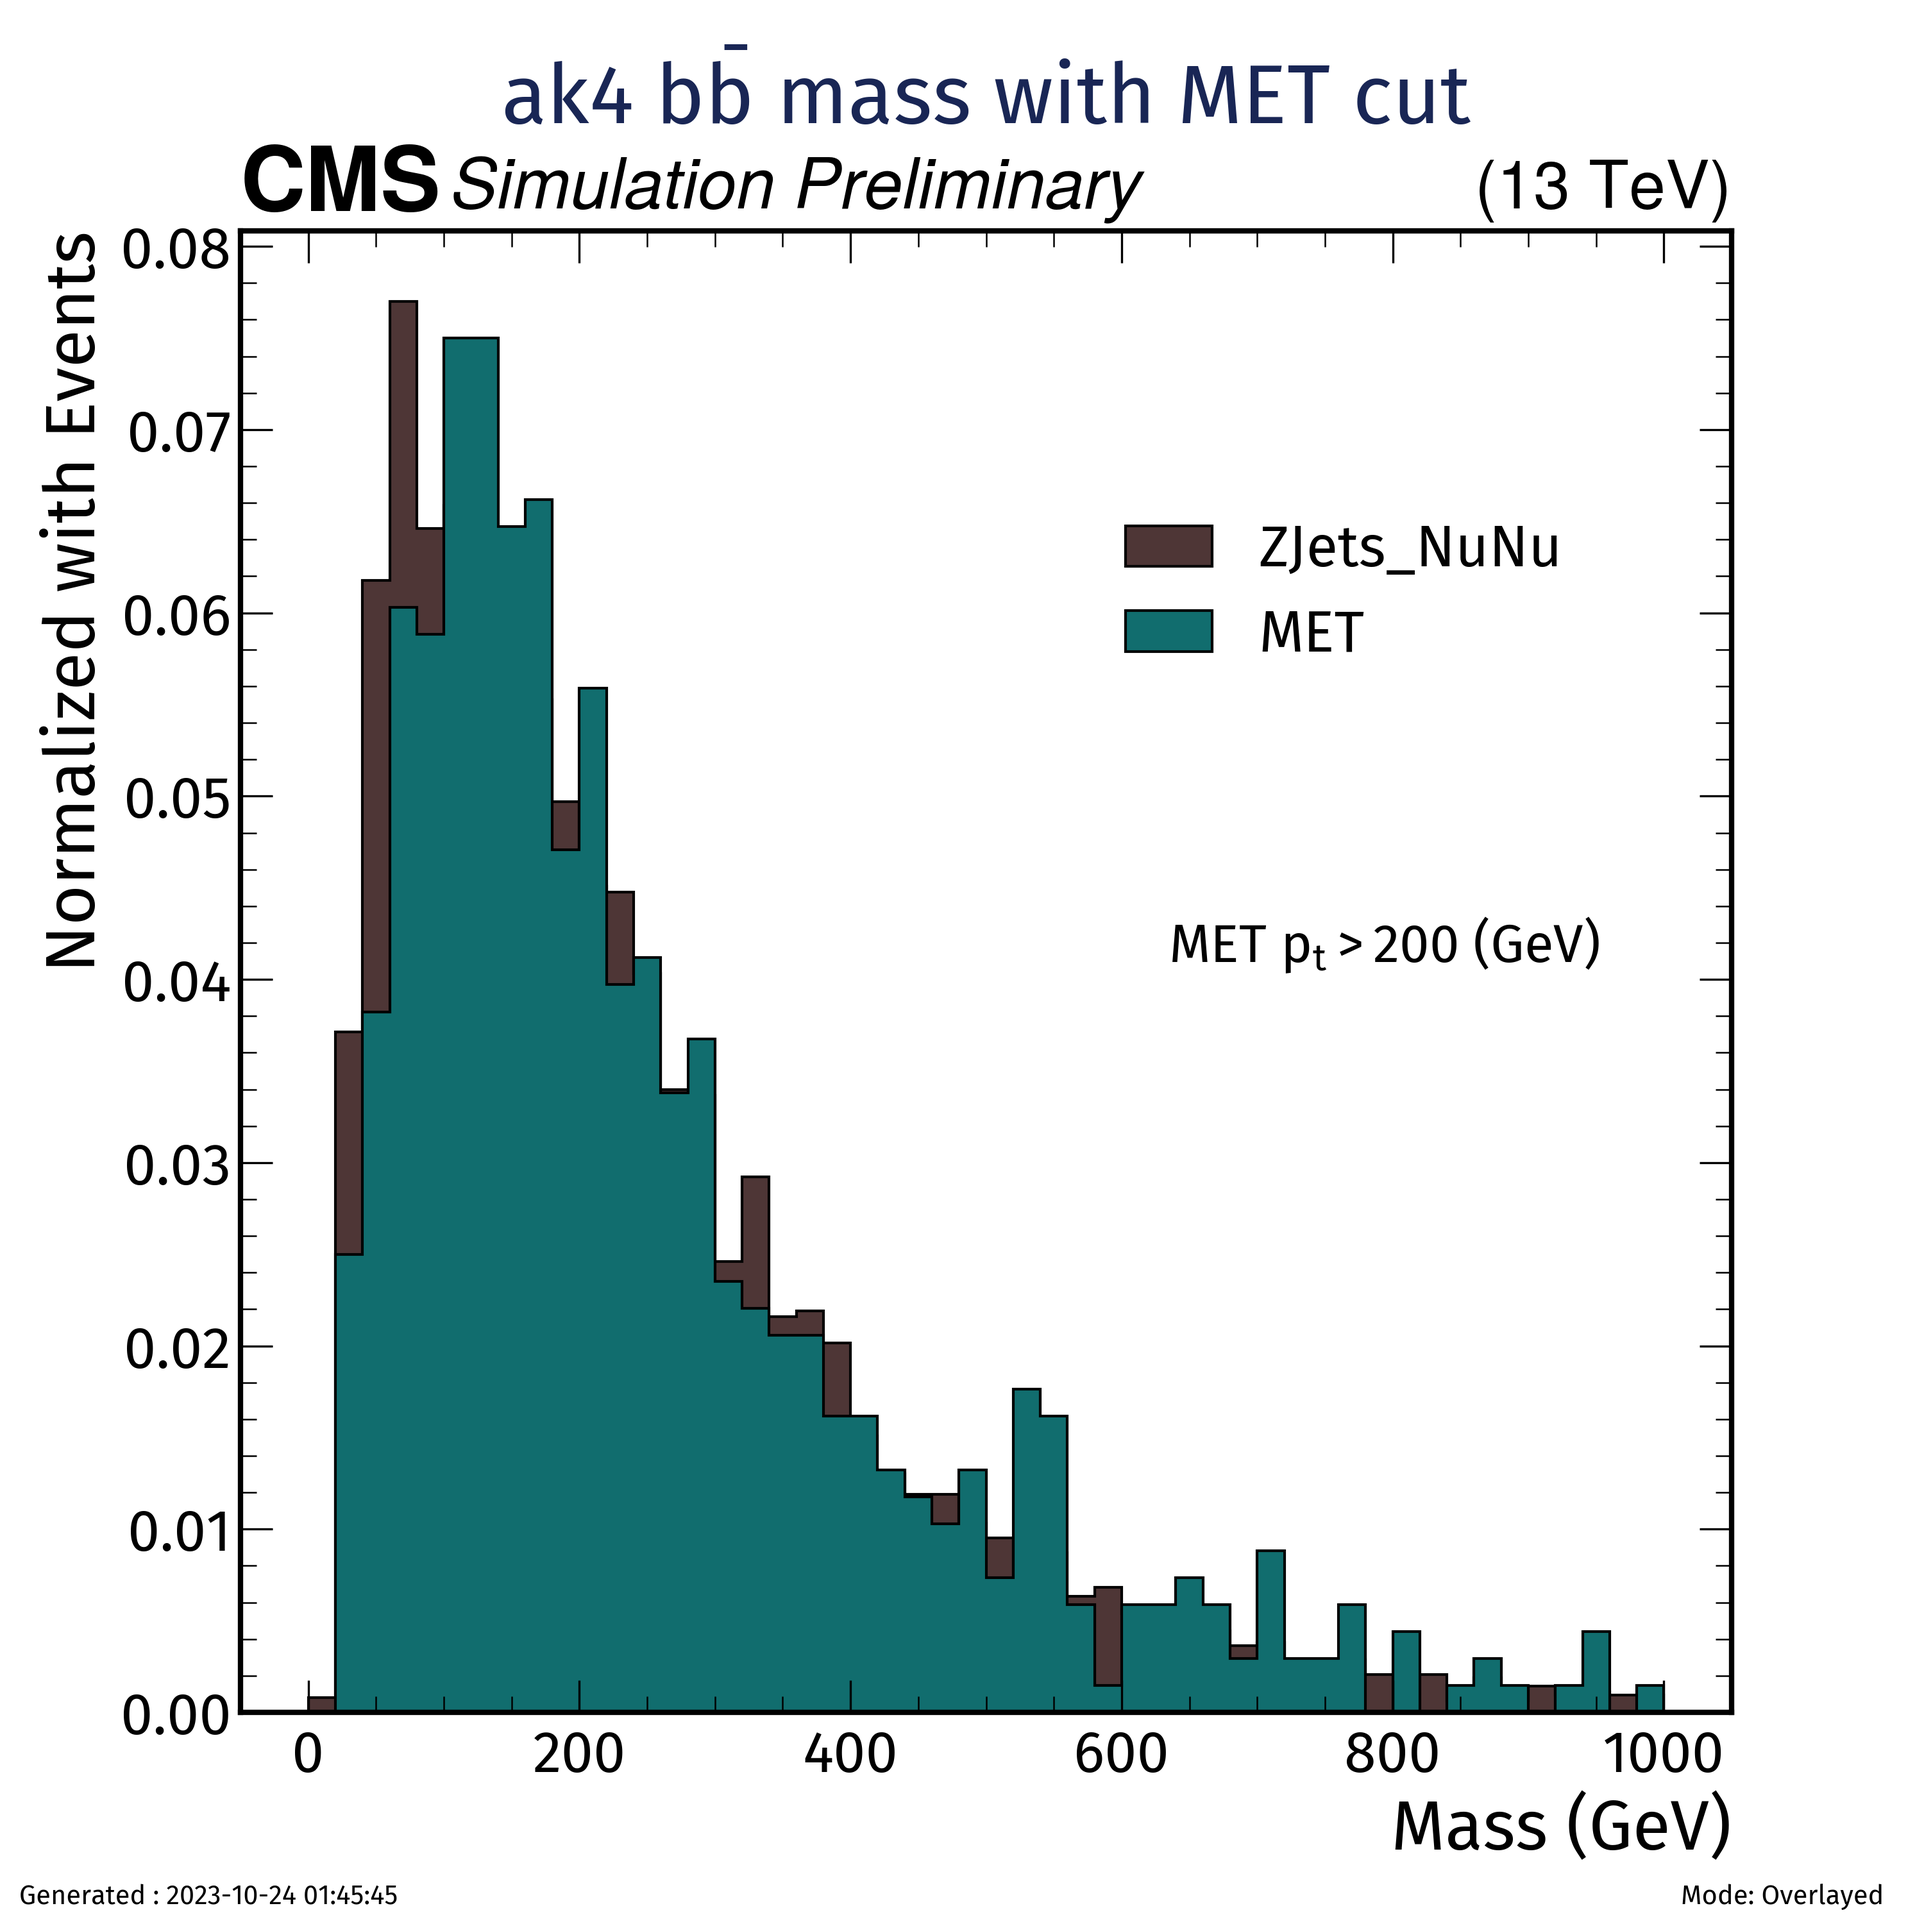
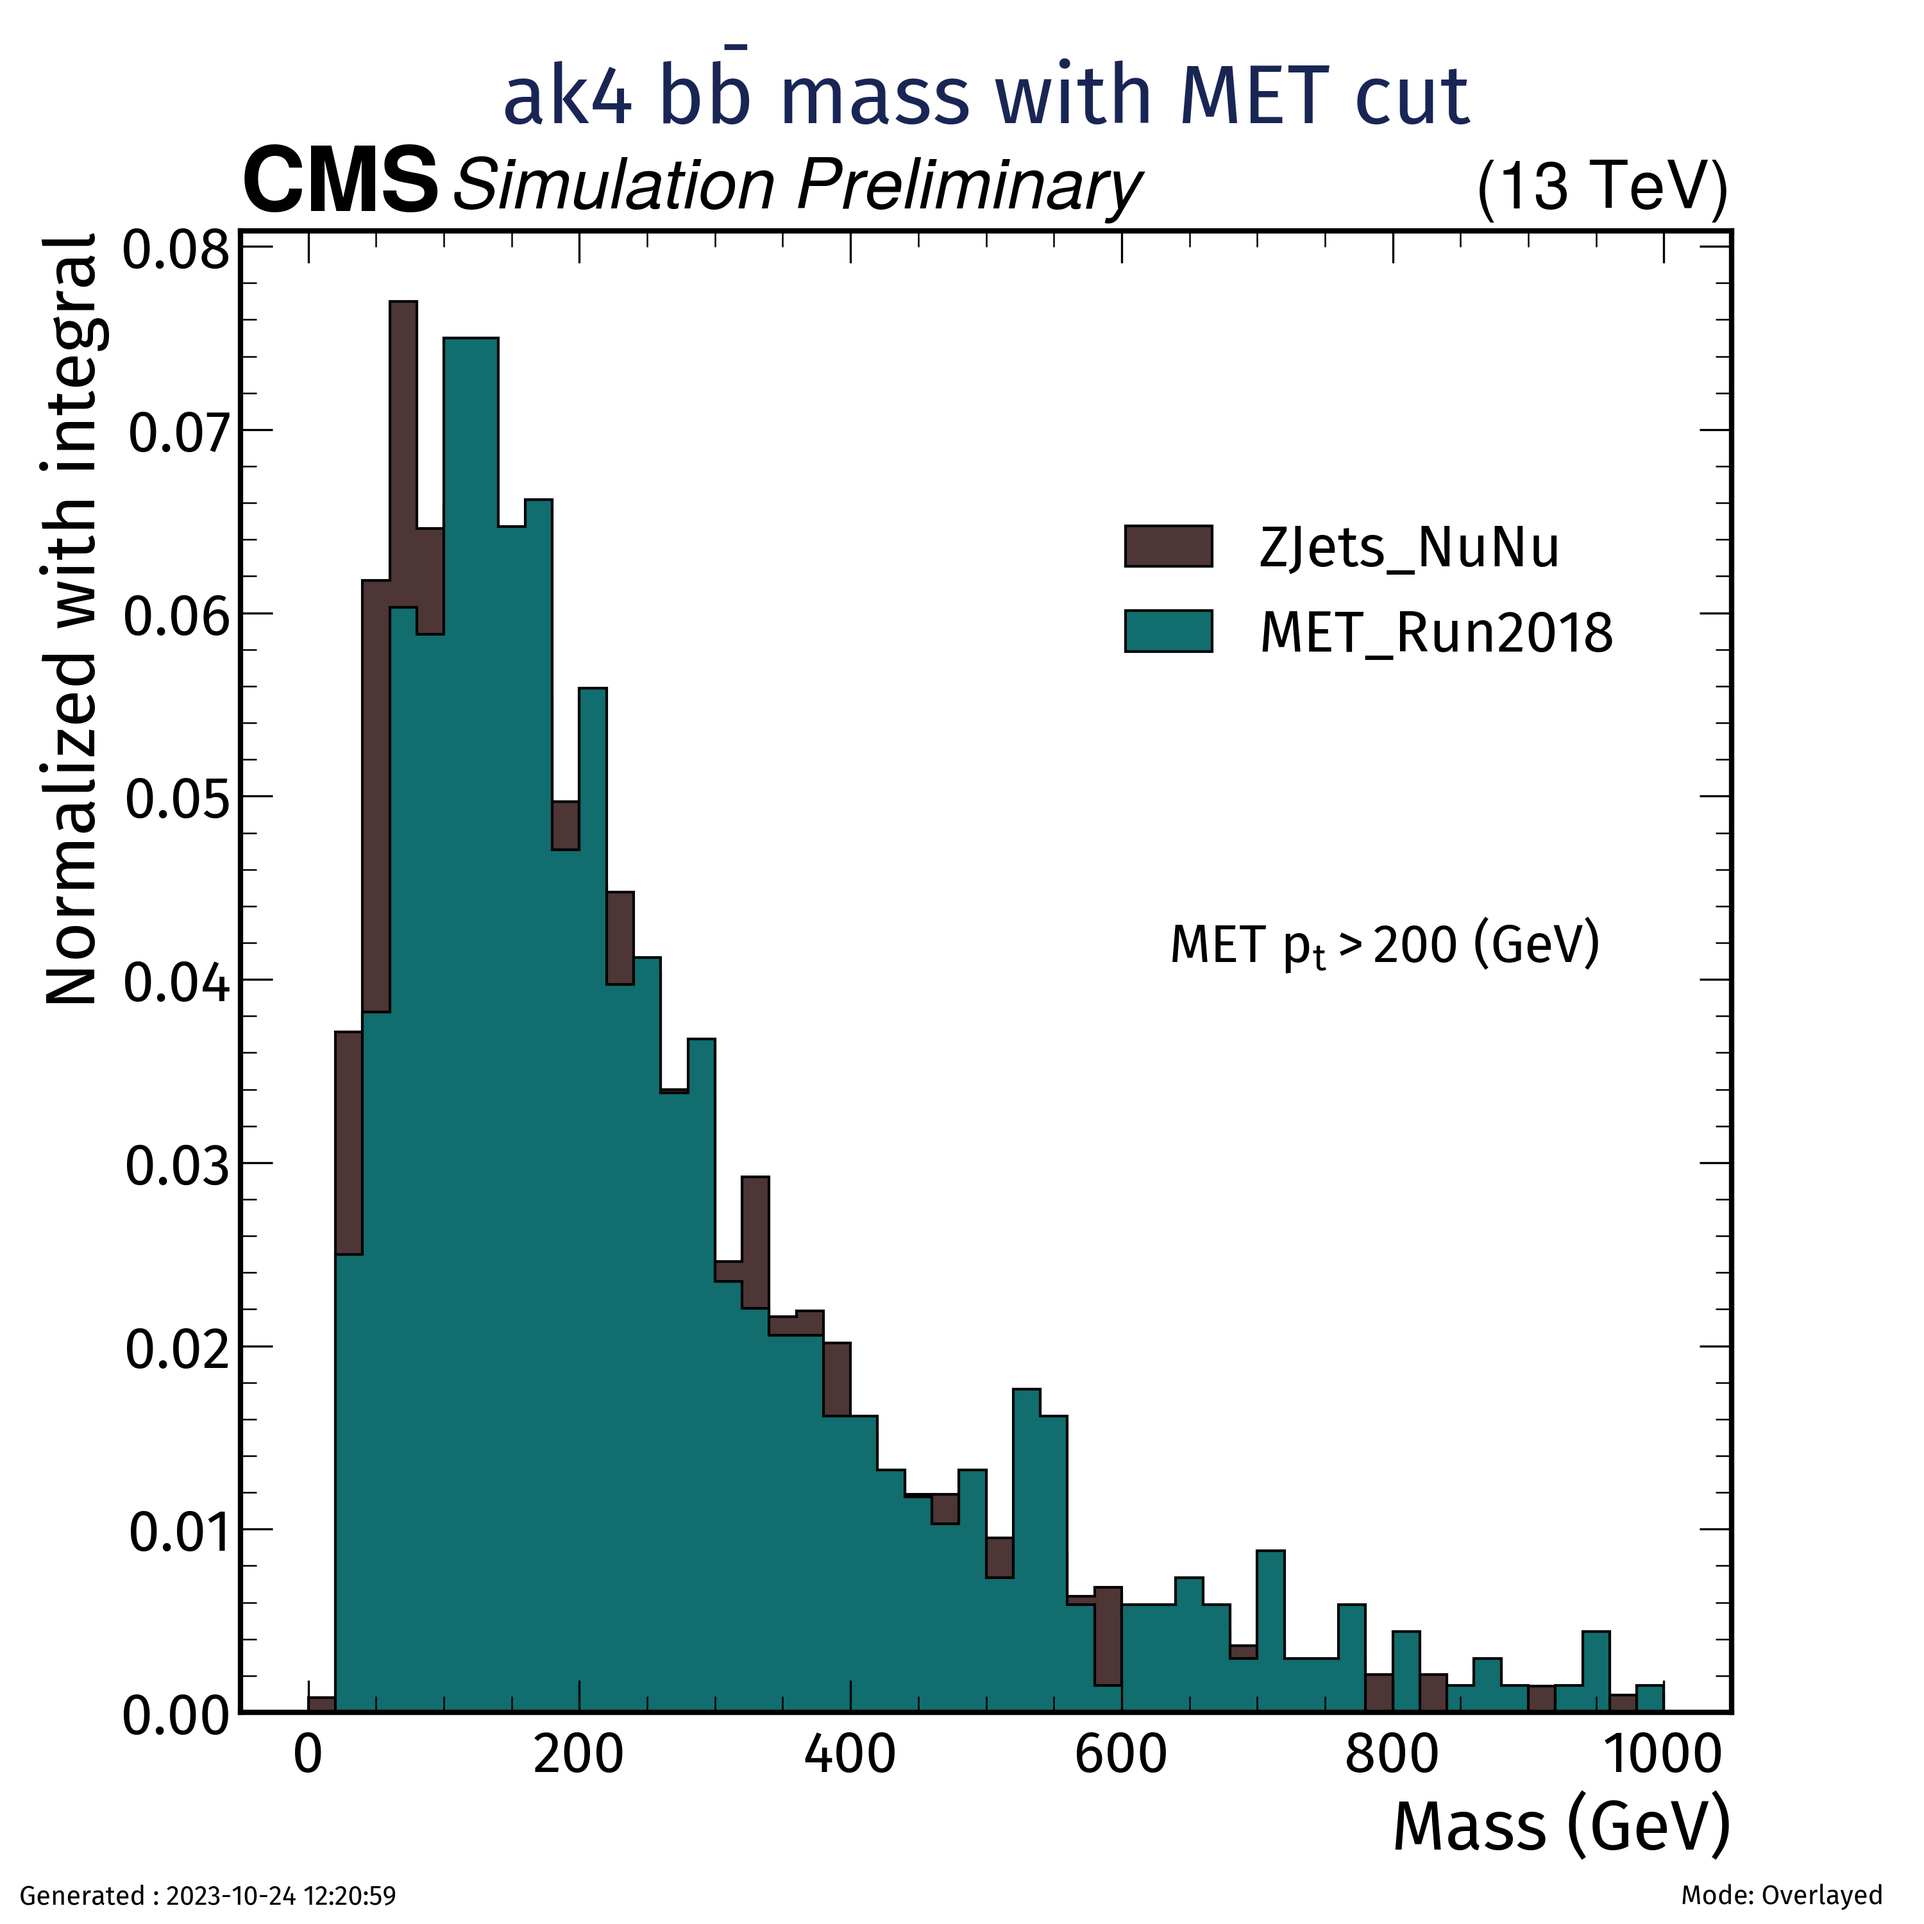
Automated Commit

Changed region(s): [[0.0, 0.124, 0.062, 0.527], [0.713, 0.31, 0.837, 0.341], [0.155, 0.961, 0.217, 0.992]]

diff --git a/Backgrounds/plotter_Zjetsnunu.py b/Backgrounds/plotter_Zjetsnunu.py
@@ -72,10 +72,8 @@ def combined_plot(Output):
     Hist_List , label_List , Color_List = get_plotting_essentials(Output, "DiJet")
     norm_Hist_List = []
     for histogram in Hist_List :
-        print("original sum : ", histogram.sum())
         histogram = normalize(histogram)
         norm_Hist_List.append(histogram)
-        print("new sum : ", histogram.sum())
     fig, ax = plt.subplots()
     hep.histplot(
         norm_Hist_List,
@@ -87,7 +85,7 @@ def combined_plot(Output):
         ax=ax
         )
     hep.cms.label("Preliminary", data= False)
-    ax.set_ylabel("Normalized with Events")
+    ax.set_ylabel("Normalized with integral")
     ax.set_xlabel("Mass (GeV)")
     ax.set_title(r"ak4 $b \bar{b}$ mass",pad=40, color="#192655")
     fig.text(0.01,0.01,"Generated : "+get_timestamp(), fontsize = "10")
@@ -100,10 +98,8 @@ def combined_plot(Output):
     Hist_List , label_List , Color_List = get_plotting_essentials(Output, "DiJetMETcut")
     norm_Hist_List = []
     for histogram in Hist_List :
-        print("original sum : ", histogram.sum())
         histogram = normalize(histogram)
         norm_Hist_List.append(histogram)
-        print("new sum : ", histogram.sum())
     fig, ax = plt.subplots()
     hep.histplot(
         norm_Hist_List,
@@ -115,7 +111,7 @@ def combined_plot(Output):
         ax=ax
         )
     hep.cms.label("Preliminary", data= False)
-    ax.set_ylabel("Normalized with Events")
+    ax.set_ylabel("Normalized with integral")
     ax.set_xlabel("Mass (GeV)")
     ax.set_title(r"ak4 $b \bar{b}$ mass with MET cut",pad=40, color="#192655")
     fig.text(0.01,0.01,"Generated : "+get_timestamp(), fontsize = "10")
@@ -126,9 +122,9 @@ def combined_plot(Output):
     fig.savefig(plotname, dpi=300)
     print(plotname , f" created at {os.getcwd()}")
 
-MET = util.load("Zjetsnunu_MET.coffea")
+MET_Run2018 = util.load("Zjetsnunu_MET_Run2018.coffea")
 Znunu = util.load("Zjetsnunu_ZJets_NuNu.coffea")
-master_dict = processor.accumulate([MET,Znunu])
+master_dict = processor.accumulate([MET_Run2018,Znunu])
 util.save(master_dict, "BackgroundDijets.coffea")
 showinfo(master_dict)
 plot(master_dict)
